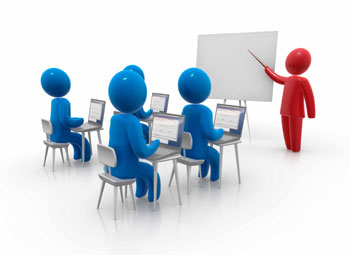
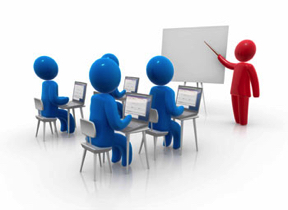
change image sizes and make tab auto select on scroll

diff --git a/index.html b/index.html
@@ -7,7 +7,7 @@
     <meta name="viewport" content="width=device-width, initial-scale=1">
     <meta name="description" content=" AEF Energy website">
     <meta name="author" content="Tolu Ezekiel">
-    <title> AEF Energy | Assest Management </title>
+    <title> AEF Energy | Asset Management </title>
     <link href="img/aef-icon.png" rel="shortcut icon" type="image/x-icon">
     <link href="css/bootstrap.min.css" rel="stylesheet">
     <!-- Custom CSS -->
@@ -41,22 +41,22 @@
             <div class="collapse navbar-collapse" id="bs-example-navbar-collapse-1">
                 <ul class="nav navbar-nav navbar-right">
                     <li>
-                        <a class="link" href="#about">About</a>
+                        <a id="about-link" class="link" href="#about">About</a>
                     </li>
                     <li>
-                        <a class="link" href="#capabilities">Capabilities</a>
+                        <a id="capabilities-link" class="link" href="#capabilities">Capabilities</a>
                     </li>
                     <li>
-                        <a class="link" href="#strategic">Strategic Partners</a>
+                        <a id="strategic-link" class="link" href="#strategic">Strategic Partners</a>
                     </li>
                     <li>
-                        <a class="link" href="#consulting">Consulting</a>
+                        <a id="consulting-link" class="link" href="#consulting">Consulting</a>
                     </li>
                     <li>
-                        <a class="link" href="#training">Training</a>
+                        <a id="training-link" class="link" href="#training">Training</a>
                     </li>
                     <li>
-                        <a class="link" href="#contact">Contact</a>
+                        <a id="contact-link" class="link" href="#contact">Contact</a>
                     </li>
                 </ul>
             </div>
@@ -67,24 +67,30 @@
     <div id="carousel-example-generic" class="carousel slide" data-ride="carousel">
         <ol class="carousel-indicators">
             <li data-target="#carousel-example-generic" data-slide-to="0" class="active"></li>
-            <!-- <li data-target="#carousel-example-generic" data-slide-to="1"></li>
+            <li data-target="#carousel-example-generic" data-slide-to="1"></li>
             <li data-target="#carousel-example-generic" data-slide-to="2"></li>
-            <li data-target="#carousel-example-generic" data-slide-to="3"></li> -->
         </ol>
         <!-- Wrapper for slides -->
         <div class="carousel-inner" role="listbox">
             <div class="item active carousel-image">
                 <img id="carousel-1" class="img-responsive" src="./img/9.jpg" alt="Image 1">
-            </div>
-           <!--  <div class="item carousel-image">
-                <img src="./img/background.jpg" alt="Image 2">
-            </div>
-            <div class="item carousel-image">
-                <img class="img-responsive" src="./img/7.jpg" alt="Image 3">
+                <img id="carousel-1-alt1" class="img-responsive" src="./img/9rsz.jpg" alt="Image 1">
+                <img id="carousel-1-alt2" class="img-responsive" src="./img/9rsz2.jpg" alt="Image 1">
+                <img id="carousel-1-alt3" class="img-responsive" src="./img/9rsz3.jpg" alt="Image 1">
             </div>
             <div class="item carousel-image">
-                <img class="img-responsive" src="./img/refinery.jpg" alt="Image 4">
-            </div> -->
+                <img id="carousel-2" class="img-responsive" src="./img/background.jpg" alt="Image 2">
+                <img id="carousel-2-alt1" class="img-responsive" src="./img/backgroundrsz.jpg" alt="Image 2">
+                <img id="carousel-2-alt2" class="img-responsive" src="./img/backgroundrsz2.jpg" alt="Image 2">
+                <img id="carousel-2-alt3" class="img-responsive" src="./img/backgroundrsz3.jpg" alt="Image 2">
+                <img id="carousel-2-alt4" class="img-responsive" src="./img/backgroundrsz4.jpg" alt="Image 2">
+            </div>
+            <div class="item carousel-image">
+                <img id="carousel-3" class="img-responsive" src="./img/7.jpg" alt="Image 3">
+                <img id="carousel-3-alt1" class="img-responsive" src="./img/7rsz.jpg" alt="Image 3">
+                <img id="carousel-3-alt2" class="img-responsive" src="./img/7rsz2.jpg" alt="Image 3">
+                <img id="carousel-3-alt3" class="img-responsive" src="./img/7rsz3.jpg" alt="Image 3">
+            </div>
         </div>
     </div>
 
@@ -224,7 +230,7 @@
                     <img class="img-responsive" src="img/security.png" alt="">
                 </div>
                 <div class="col-lg-5 col-lg-offset-2 col-sm-6">
-                    <h3 class="section-heading">Assest security</h3>
+                    <h3 class="section-heading">Asset security</h3>
                     <p class="list">Lorem ipsum dolor sit amet, consectetur adipiscing elit</p>
                     <p class="list">sed do eiusmod tempor incididunt ut labore et dolore magna aliqua</p>
                 </div>
@@ -275,13 +281,15 @@
                 <div class="col-lg-5 col-lg-offset-2 col-sm-6">
                     <hr class="section-heading-spacer">
                     <h3 class="section-heading">Core skills and competencies</h3>
-                    <p class="list">Naval Architecture</p>
-                    <p class="list">Marine & structural integrity management</p>
-                    <p class="list">Topside pressure system integrity management</p>
-                    <p class="list">Reliability Engineering</p>
-                    <p class="list">Corrosion Engineering</p>
-                    <p class="list">Maintenance & modification management</p>
-                    <p class="list">Process improvement, mapping and audit</p>
+                    <ul>
+                        <li><p class="list">Naval Architecture</p></li>
+                        <li><p class="list">Marine & structural integrity management</p></li>
+                        <li><p class="list">Topside pressure system integrity management</p></li>
+                        <li><p class="list">Reliability Engineering</p></li>
+                        <li><p class="list">Corrosion Engineering</p></li>
+                        <li><p class="list">Maintenance & modification management</p></li>
+                        <li><p class="list">Process improvement, mapping and audit</p></li>
+                    </ul>
                 </div>
             </div>
         </div>
@@ -500,11 +508,11 @@
                         </span>
                     </a>
                 </span>
-                <p class="copyright small">&copy; AEF Energy 2017.</p>
+                <p class="copyright small">&copy; AEF Energy 2017. &nbsp; Designed by Tolu Ezekiel</p>
             </div>
         </div>
     </footer>
-
+    <a id="scrollUp" href="#home" title=""></a>
     <!-- jQuery -->
     <script src="js/jquery.js"></script>
     <script src="js/animate.min.js"></script>

diff --git a/js/animate.min.js b/js/animate.min.js
@@ -1,6 +1,3 @@
-// jQuery(document).ready(function(s){function e(){a(s(".cd-headline.letters").find("b")),n(s(".cd-headline"))}function a(e){e.each(function(){var e=s(this),a=e.text().split(""),n=e.hasClass("is-visible");for(i in a)e.parents(".rotate-2").length>0&&(a[i]="<em>"+a[i]+"</em>"),a[i]=n?'<i class="in">'+a[i]+"</i>":"<i>"+a[i]+"</i>";var t=a.join("");e.html(t).css("opacity",1)})}function n(i){var e=h;i.each(function(){var i=s(this);if(i.hasClass("loading-bar"))e=u,setTimeout(function(){i.find(".cd-words-wrapper").addClass("is-loading")},p);else if(i.hasClass("clip")){var a=i.find(".cd-words-wrapper"),n=a.width()+10;a.css("width",n)}else if(!i.hasClass("type")){var d=i.find(".cd-words-wrapper b"),l=0;d.each(function(){var i=s(this).width();i>l&&(l=i)}),i.find(".cd-words-wrapper").css("width",l)}setTimeout(function(){t(i.find(".is-visible").eq(0))},e)})}function t(s){var i=o(s);if(s.parents(".cd-headline").hasClass("type")){var e=s.parent(".cd-words-wrapper");e.addClass("selected").removeClass("waiting"),setTimeout(function(){e.removeClass("selected"),s.removeClass("is-visible").addClass("is-hidden").children("i").removeClass("in").addClass("out")},m),setTimeout(function(){d(i,C)},w)}else if(s.parents(".cd-headline").hasClass("letters")){var a=s.children("i").length>=i.children("i").length?!0:!1;l(s.find("i").eq(0),s,a,f),r(i.find("i").eq(0),i,a,f)}else s.parents(".cd-headline").hasClass("clip")?s.parents(".cd-words-wrapper").animate({width:"2px"},v,function(){c(s,i),d(i)}):s.parents(".cd-headline").hasClass("loading-bar")?(s.parents(".cd-words-wrapper").removeClass("is-loading"),c(s,i),setTimeout(function(){t(i)},u),setTimeout(function(){s.parents(".cd-words-wrapper").addClass("is-loading")},p)):(c(s,i),setTimeout(function(){t(i)},h))}function d(s,i){s.parents(".cd-headline").hasClass("type")?(r(s.find("i").eq(0),s,!1,i),s.addClass("is-visible").removeClass("is-hidden")):s.parents(".cd-headline").hasClass("clip")&&s.parents(".cd-words-wrapper").animate({width:s.width()+10},v,function(){setTimeout(function(){t(s)},T)})}function l(i,e,a,n){if(i.removeClass("in").addClass("out"),i.is(":last-child")?a&&setTimeout(function(){t(o(e))},h):setTimeout(function(){l(i.next(),e,a,n)},n),i.is(":last-child")&&s("html").hasClass("no-csstransitions")){var d=o(e);c(e,d)}}function r(s,i,e,a){s.addClass("in").removeClass("out"),s.is(":last-child")?(i.parents(".cd-headline").hasClass("type")&&setTimeout(function(){i.parents(".cd-words-wrapper").addClass("waiting")},200),e||setTimeout(function(){t(i)},h)):setTimeout(function(){r(s.next(),i,e,a)},a)}function o(s){return s.is(":last-child")?s.parent().children().eq(0):s.next()}function c(s,i){s.removeClass("is-visible").addClass("is-hidden"),i.removeClass("is-hidden").addClass("is-visible")}var h=2500,u=3500,p=u-3e3,f=25,C=100,m=300,w=m+200,v=500,T=1200;	$('.sticky-menu').addClass('original').clone().insertAfter('.sticky-menu').addClass('cloned').css('position','fixed').css('top','0').css('margin-top','0').css('z-index','500').removeClass('original').hide();e()});
-
-
 Port = {
 	initialize: function () {
 		Port.Animate();
@@ -24,6 +21,43 @@ Port = {
 			// $(".portfolio").css({"background": "url(./img/portfolio-mobile.jpg) no-repeat center center" });
 			// $(".contact").css({"background": "url(./img/contact-mobile.jpg) no-repeat center center"})
 		};
+
+		$(function() {
+		    $(window).on("scroll", function() {
+				var about  = $(".about").offset().top;
+				var capabilities  = $(".capabilities").offset().top;
+				var strategic  = $(".strategic").offset().top;
+				var consulting  = $(".consulting").offset().top;
+				var training  = $(".training").offset().top;
+				var contact  = $(".contact").offset().top;
+
+		    	if($(window).scrollTop() > capabilities) {
+		    		$('#scrollUp').show();
+		    	} else {
+		    		$('#scrollUp').hide();
+		    	}
+
+		        if($(window).scrollTop() >= about && $(window).scrollTop() < capabilities) {
+					$('.link').removeClass('selected');
+					$('#about-link').addClass('selected');
+		        } else if($(window).scrollTop() >= capabilities && $(window).scrollTop() < strategic) {
+					$('.link').removeClass('selected');
+					$('#capabilities-link').addClass('selected');
+		        } else if($(window).scrollTop() >= strategic && $(window).scrollTop() < consulting) {
+					$('.link').removeClass('selected');
+					$('#strategic-link').addClass('selected');
+		        } else if($(window).scrollTop() >= consulting && $(window).scrollTop() < training) {
+					$('.link').removeClass('selected');
+					$('#consulting-link').addClass('selected');
+		        } else if($(window).scrollTop() >= training && $(window).scrollTop() < contact) {
+					$('.link').removeClass('selected');
+					$('#training-link').addClass('selected');
+		        } else if($(window).scrollTop() >= contact) {
+					$('.link').removeClass('selected');
+					$('#contact-link').addClass('selected');
+		        }
+		    });
+		});
 	},
 
 	Animate: function(){

diff --git a/css/main.css b/css/main.css
@@ -80,7 +80,23 @@ ul {
     font-size: 18px;
     font-weight: 300;
 }
-
+#scrollUp{
+    background: url(../img/top.png);
+    background-color: rgba(18, 70, 102, 0.65);
+    background-repeat: no-repeat;
+    background-position: 50% 45%;
+    width: 40px;
+    height: 40px;
+    position: fixed;
+    bottom: 190px;
+    right: 20px;
+    z-index: 2147483647;
+    display: inline;
+    border-radius: 50%;
+}
+#scrollUp:hover {
+    background-color: rgba(18, 70, 102, 0.5);
+} 
 
 
 .contact {
@@ -169,12 +185,47 @@ ul {
     visibility: visible;
     font-style: normal;
 }
+#carousel-1-alt1, #carousel-1-alt2, #carousel-1-alt3, #carousel-2-alt1, #carousel-2-alt2, #carousel-2-alt3, #carousel-2-alt4, #carousel-3-alt1, #carousel-3-alt2, #carousel-3-alt3, #carousel-4-alt1, #carousel-4-alt2, #carousel-4-alt3 {
+    display: none;
+}
+
+@media(max-width: 938px) {
+    #carousel-2, #carousel-2-alt1, #carousel-2-alt2, #carousel-2-alt3 {
+        display: none;
+    }
+    #carousel-2-alt4 {
+        display: block;
+    }
+}
+@media(max-width: 826px) {
+    #carousel-1-alt1, #carousel-2-alt1, #carousel-3-alt1, #carousel-4-alt1 {
+        display: block;
+    }
+    #carousel-1, #carousel-1-alt2, #carousel-1-alt3, #carousel-2, #carousel-2-alt2, #carousel-2-alt3, #carousel-2-alt4, #carousel-3, #carousel-3-alt2, #carousel-3-alt3, #carousel-4, #carousel-4-alt2, #carousel-4-alt3 {
+        display: none;
+    }
+}
+@media(max-width: 620px) {
+    #carousel-1-alt2, #carousel-2-alt2, #carousel-3-alt2 {
+        display: block;
+    }
+    #carousel-1, #carousel-1-alt1, #carousel-1-alt3, #carousel-2, #carousel-2-alt1, #carousel-2-alt3, #carousel-2-alt4, #carousel-3, #carousel-3-alt1, #carousel-3-alt3{
+        display: none;
+    }
+}
+@media(max-width: 440px) {
+    #carousel-1-alt3, #carousel-2-alt3, #carousel-3-alt3 {
+        display: block;
+    }
+    #carousel-1, #carousel-1-alt1, #carousel-1-alt2, #carousel-2, #carousel-2-alt1, #carousel-2-alt2, #carousel-2-alt4, #carousel-3, #carousel-3-alt1, #carousel-3-alt2 {
+        display: none;
+    }
+}
 
 @media(max-width:767px) {
     .intro-message, .contact-message {
         padding-bottom: 15%;
     }
-
     .intro-message > h1, .contact-message > h1 {
         font-size: 3em;
     }
